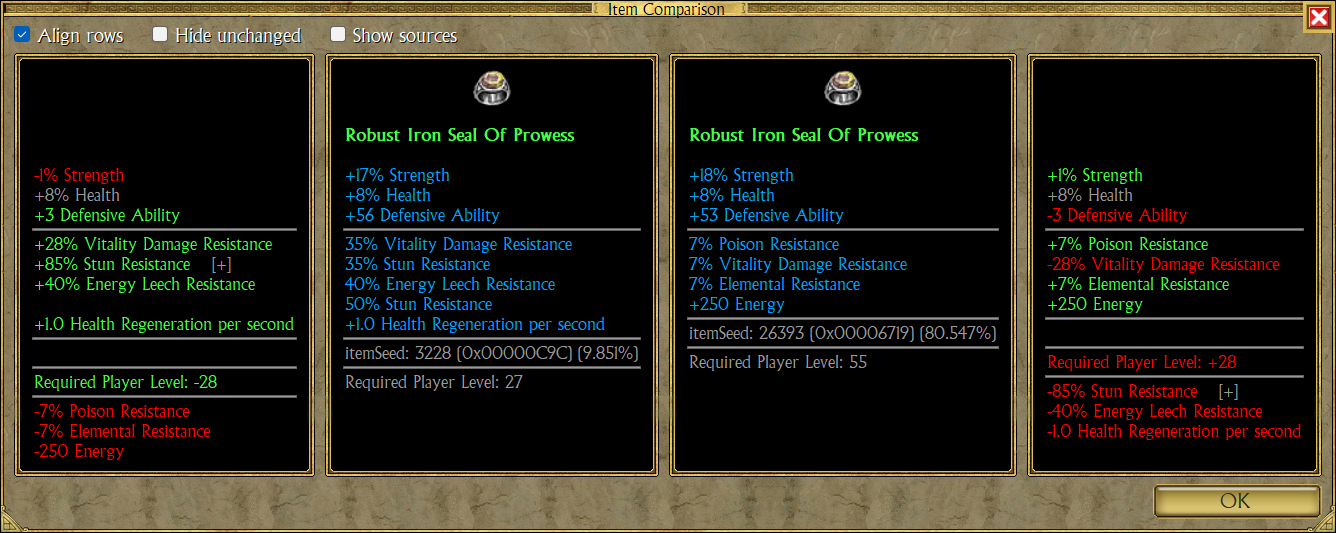
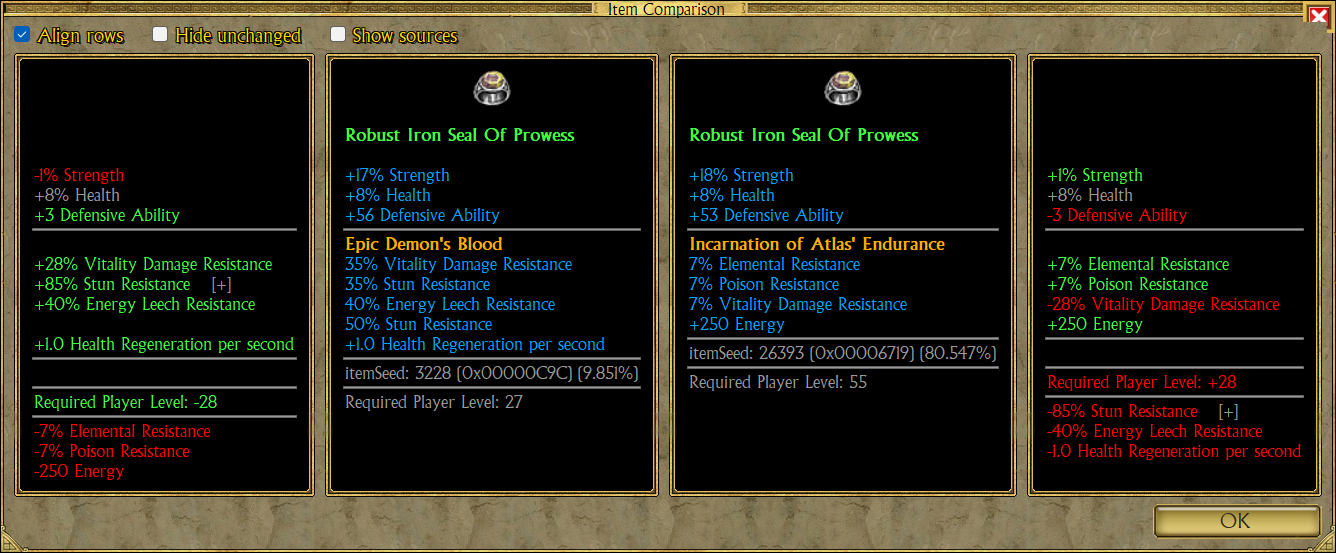
feat(compare): socketed relics and charms titled by their name in the item columns
The item columns of the comparison keep only lines with numbers: an incomplete relic showed through its "Relic Shard - 1 / 3" line, a completed one had no title at all. The titles of the item tool tip (its bold lines: a socketed relic's or charm's name, an artifact formula's) now stay, like the item name. The two pictures with socketed relics are retaken.

diff --git a/src/TQVaultAE.Presentation/ItemComparisonContentBuilder.cs b/src/TQVaultAE.Presentation/ItemComparisonContentBuilder.cs
@@ -123,8 +123,9 @@ public class ItemComparisonContentBuilder(ITranslationService translationService
 
 	/// <summary>
 	/// The lines of an item column: the item tooltip without the lines that carry no number (lore, set member lists,
-	/// "Speed: Fast", "Grants Skill :"), as in the difference columns. The item name (the first line) and the warnings
-	/// stay, and so does a text line heading indented lines with numbers ("Bonus to all Pets:") or naming one of
+	/// "Speed: Fast", "Grants Skill :"), as in the difference columns. The item name (the first line), the titles (the
+	/// bold lines: a socketed relic's or charm's name, an artifact formula's) and the warnings stay, and so does a text
+	/// line heading indented lines with numbers ("Bonus to all Pets:") or naming one of
 	/// <paramref name="skillNames"/> (the granted skills, whose differences are aligned under their name). Blank lines and
 	/// delimiters left next to each other are merged into one (a delimiter wins), none at the start or the end.
 	/// </summary>
@@ -137,7 +138,8 @@ public class ItemComparisonContentBuilder(ITranslationService translationService
 		bool Kept(int i)
 		{
 			var line = lines[i];
-			if (line.Kind is TooltipLineKind.Spacer or TooltipLineKind.Delimiter or TooltipLineKind.Warning || i == name)
+			if (line.Kind is TooltipLineKind.Spacer or TooltipLineKind.Delimiter or TooltipLineKind.Warning || i == name
+				|| (line.Bold && line.Kind == TooltipLineKind.Text && line.Text.Length != 0))
 				return true;
 
 			if (parsed[i] is not { } stat)

diff --git a/src/tests/TQVaultAE.Presentation.Tests/ItemComparisonContentBuilderTests.cs b/src/tests/TQVaultAE.Presentation.Tests/ItemComparisonContentBuilderTests.cs
@@ -188,6 +188,31 @@ public class ItemComparisonContentBuilderTests
 	}
 
 	[Fact]
+	public void ItemColumnLines_SocketedRelicNameKept_LikeTheItemName()
+	{
+		TooltipLine[] item =
+		[
+			TooltipLine.Of("Bronze Hooked Blade", bold: true),
+			TooltipLine.Of("+18 Strength"),
+			TooltipLine.Delimiter,
+			TooltipLine.Of("Heart of the Phoenix", bold: true),
+			TooltipLine.Of("Completed"),
+			TooltipLine.Of("+12 Strength"),
+			TooltipLine.Of("Completion Bonus:"),
+			TooltipLine.Of("+7 Strength"),
+			TooltipLine.Delimiter,
+			TooltipLine.Of("Spirit of the Ancients", bold: true),
+			TooltipLine.Of("Relic Shard - 1 / 3"),
+			TooltipLine.Of("+12 Strength"),
+		];
+
+		ItemComparisonContentBuilder.ItemColumnLines(item).Select(l => l.Text).Where(t => t.Length != 0).Should().Equal(
+			"Bronze Hooked Blade", "+18 Strength",
+			"Heart of the Phoenix", "+12 Strength", "+7 Strength",
+			"Spirit of the Ancients", "Relic Shard - 1 / 3", "+12 Strength");
+	}
+
+	[Fact]
 	public void ItemColumnLines_GrantedSkillNameKept_SoItsStatsAlignUnderIt()
 	{
 		TooltipLine[] item = [TooltipLine.Of("Blood Gem"), TooltipLine.Of("Grants Skill :"), TooltipLine.Of("{^E}Blood Boil"), TooltipLine.Of("6.0 Meter Radius")];
